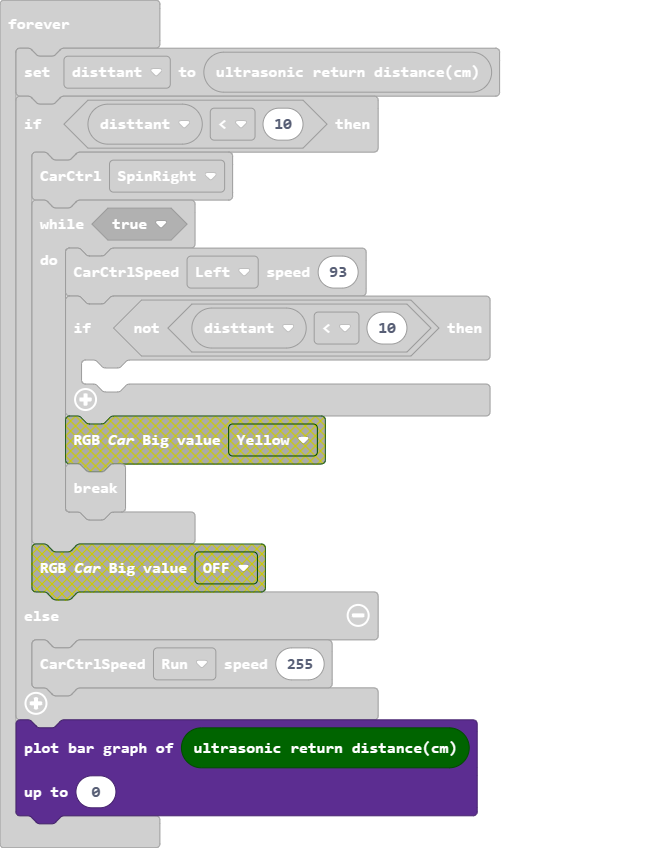
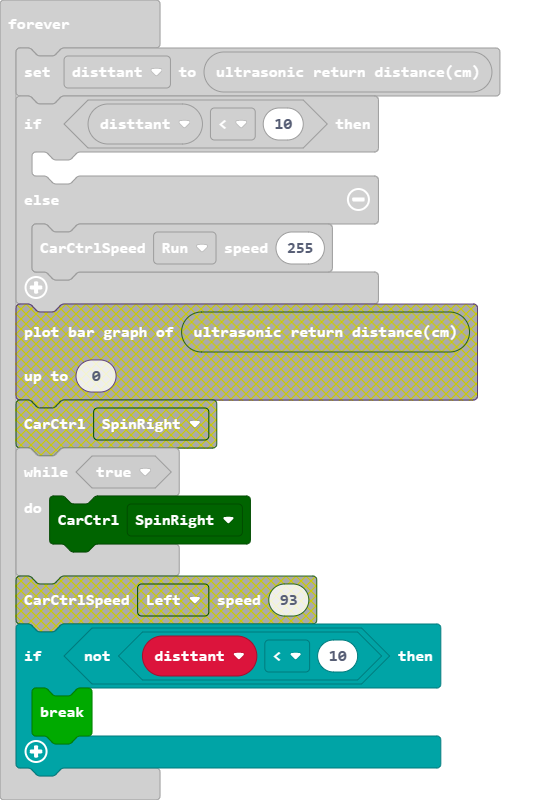
Update main.blocks, main.ts

diff --git a/main.ts b/main.ts
@@ -2,9 +2,8 @@ let disttant = 0
 basic.forever(function () {
     disttant = Tinybit.Ultrasonic_Car()
     if (disttant < 10) {
-        Tinybit.CarCtrl(Tinybit.CarState.Car_SpinRight)
         while (true) {
-            Tinybit.CarCtrlSpeed(Tinybit.CarState.Car_Left, 93)
+            Tinybit.CarCtrl(Tinybit.CarState.Car_SpinRight)
             if (!(disttant < 10)) {
                 break;
             }
@@ -12,8 +11,4 @@ basic.forever(function () {
     } else {
         Tinybit.CarCtrlSpeed(Tinybit.CarState.Car_Run, 255)
     }
-    led.plotBarGraph(
-    Tinybit.Ultrasonic_Car(),
-    0
-    )
 })
